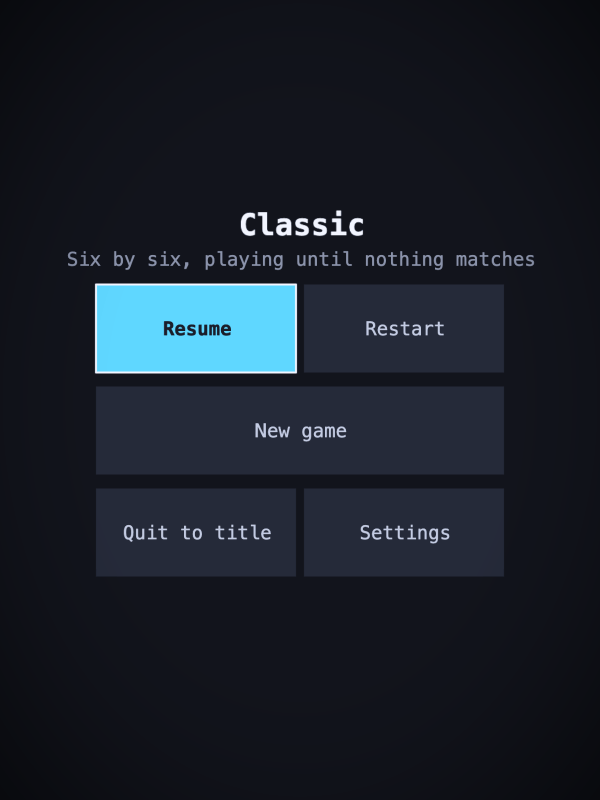
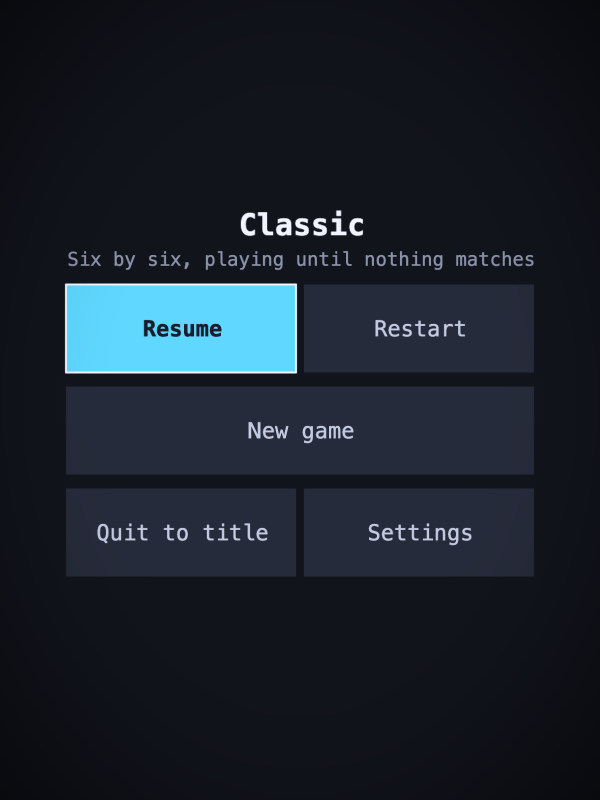
Bigger type, a wider panel, and lines that fit what holds them
Scaled down to a phone, the field's 600 across is about 390: what looks
generous at full size is a thumb's width there. So the menu is 520 wide
rather than 460, which makes a puzzle tile 111 across rather than 96, and
button labels, setting values and binding rows all go up two or three
points. The pause button is 66 by 50 rather than 46 by 34 - about a
fingertip once scaled - with its bars taken off the box so the glyph grows
with it, and its centre held where it was, since the strip's one line of
text sits on that centreline.

More of the board is held back: the frost goes to 0.93 dark and 0.96
light, and a cell to 0.97. The board behind a menu is bloom over a dark
field, and what read through a thinner glass was not the board but a few
bright blobs wandering under whatever was being read.

And the welcome banner was clipped at both ends: thirty-three characters
at thirty-six point wants 716 of a 600 wide field, so it ran from -56 to
656. Fitting a centred line to the room it has is now one thing that the
banner, a hint and a page heading all go through - how wide a run is
depends on the face it is drawn in as well as on what it says, and none of
the three is laid out, they are written.

diff --git a/src/view.js b/src/view.js
@@ -45,12 +45,16 @@ const HINT_H = 46
 // this is a hint to shorten.
 const HINT_SIZE = 18
 const HINT_SIZE_MIN = 14
+// How far a banner keeps off the edges of the field it is written across.
+const BANNER_MARGIN = 22
 // The gutter a settings row's name sits in, to the left of its values.
 const LABEL_W = 116
 
-// How wide a menu is. Everything in one is laid out from this, including how tall a scrolling
-// row has to be.
-const MENU_W = 460
+// How wide a menu is. Everything in one is laid out from this, including how tall a
+// scrolling row has to be. Wide, because the field is only 600 across and every cell in a
+// menu is a tap target scaled down to whatever a phone is: what is left either side is
+// enough to read the panel as something laid over the board.
+const MENU_W = 520
 
 // The level picker: a square cell per puzzle, and how many lines of them are on screen at
 // once. Four lines of four is sixteen visible at a time, which is enough that a player can
@@ -64,7 +68,7 @@ const SEED_H = 108
 
 // The pause button, in the strip under the board. A touch player has no escape key,
 // so this is the only way into the menu for them, and it is where a thumb already is.
-const PAUSE_BUTTON = { w: 46, h: 34, x: VIEW_W - 28 - 46, y: HUD_BOTTOM - 4 }
+const PAUSE_BUTTON = { w: 66, h: 50, x: VIEW_W - 24 - 66, y: HUD_BOTTOM - 12 }
 
 export class GameView {
   constructor(renderer) {
@@ -525,9 +529,9 @@ export class GameView {
   #drawPauseButton(theme) {
     const box = PAUSE_BUTTON
     this.renderer.panel(box.x, box.y, box.w, box.h, { fill: theme.cell })
-    const barW = 4
-    const barH = 14
-    const gap = 5
+    const barW = Math.round(box.w * 0.09)
+    const barH = Math.round(box.h * 0.44)
+    const gap = Math.round(box.w * 0.11)
     const top = box.y + (box.h - barH) / 2
     const left = box.x + box.w / 2 - gap / 2 - barW
     for (const x of [left, left + barW + gap]) {
@@ -568,6 +572,18 @@ export class GameView {
     })
   }
 
+  // What size a centred line can be drawn at and still fit the room it has. How wide a run
+  // is depends on what it says and on the face it is said in, so anything centred and
+  // written rather than laid out asks this instead of trusting its own size: a heading, a
+  // hint, and the banner over the board.
+  #fitted(text, size, room, floor = size * 0.6) {
+    const wide = this.renderer.measureText(text, size)
+    if (wide <= room) {
+      return size
+    }
+    return Math.max(size * (room / wide), floor)
+  }
+
   // A level cleared, over the board that is already dropping in behind it: it rises
   // and fades, so it never has to be dismissed.
   #drawBanner(game, theme) {
@@ -576,9 +592,11 @@ export class GameView {
     // Hold, then go: a line that starts fading immediately reads as a glitch.
     const alpha = clamp((1 - t) * 2.2, 0, 1) * clamp(t * 8, 0, 1)
     const y = game.layout.y + game.layout.height / 2 - t * 26
+    // The banner is the width of the field and not of a panel, since there is none behind it.
+    const room = VIEW_W - BANNER_MARGIN * 2
     this.renderer.text(banner.text, VIEW_W / 2, y, {
       color: theme.text.bright,
-      size: 36,
+      size: this.#fitted(banner.text, 36, room),
       align: "center",
       baseline: "middle",
       bold: true,
@@ -588,7 +606,7 @@ export class GameView {
     if (banner.sub) {
       this.renderer.text(banner.sub, VIEW_W / 2, y + 34, {
         color: theme.accent,
-        size: 22,
+        size: this.#fitted(banner.sub, 22, room),
         align: "center",
         baseline: "middle",
         alpha,
@@ -637,7 +655,7 @@ export class GameView {
     for (const line of heading) {
       renderer.text(line.text, VIEW_W / 2, textY + line.size / 2, {
         color: line.colour,
-        size: line.size,
+        size: this.#fitted(line.text, line.size, width - PANEL_PAD * 2),
         align: "center",
         baseline: "middle",
         bold: line.bold,
@@ -735,7 +753,7 @@ export class GameView {
         fill: filled ? theme.accent : theme.cell,
         // Steadier than the frost behind it: the glass is on purpose, but a label wants a
         // ground that is not moving under it.
-        alpha: filled ? 1 : 0.92,
+        alpha: filled ? 1 : 0.97,
       })
       if (under) {
         renderer.panel(box.x, box.y, box.w, box.h, {
@@ -745,7 +763,7 @@ export class GameView {
       }
       renderer.text(option.label, box.x + box.w / 2, box.y + box.h / 2, {
         color: filled ? theme.panel : theme.text.normal,
-        size: row.primary ? 25 : 19,
+        size: row.primary ? 29 : 22,
         align: "center",
         baseline: "middle",
         bold: filled,
@@ -785,11 +803,7 @@ export class GameView {
     if (!text) {
       return
     }
-    // Brought down to fit rather than run off the panel, since a hint is a whole sentence and
-    // how long one is depends on the face it is drawn in as well as on what it says.
-    const room = width - PANEL_PAD * 2
-    const wide = this.renderer.measureText(text, HINT_SIZE)
-    const size = wide > room ? Math.max(HINT_SIZE * (room / wide), HINT_SIZE_MIN) : HINT_SIZE
+    const size = this.#fitted(text, HINT_SIZE, width - PANEL_PAD * 2, HINT_SIZE_MIN)
     this.renderer.text(text, x + width / 2, rowY + rowHeight / 2, {
       color: colour,
       size,
@@ -811,14 +825,14 @@ export class GameView {
     const middle = box.y + box.h / 2
     renderer.text(row.label, x + 26, middle, {
       color: selected ? theme.text.bright : theme.text.normal,
-      size: 20,
+      size: 21,
       baseline: "middle",
       bold: selected,
     })
     if (row.value != null) {
       renderer.text(row.value, x + width - 26, middle, {
         color: selected ? theme.accent : theme.text.dim,
-        size: 19,
+        size: 20,
         align: "right",
         baseline: "middle",
         bold: selected,
@@ -840,7 +854,7 @@ export class GameView {
     if (row.label) {
       renderer.text(row.label, x + 26, rowY + boxH / 2, {
         color: onRow ? theme.text.bright : theme.text.normal,
-        size: 21,
+        size: 22,
         align: "left",
         baseline: "middle",
       })
@@ -856,7 +870,7 @@ export class GameView {
       this.menuHits.push({ index, option: optionIndex, ...box })
       renderer.panel(box.x, box.y, box.w, box.h, {
         fill: chosen ? theme.accent : theme.cell,
-        alpha: chosen ? 1 : 0.9,
+        alpha: chosen ? 1 : 0.96,
       })
       if (onRow && chosen) {
         renderer.panel(box.x, box.y, box.w, box.h, {
@@ -869,7 +883,7 @@ export class GameView {
       } else {
         renderer.text(option.label, box.x + box.w / 2, box.y + box.h / 2, {
           color: chosen ? theme.panel : theme.text.normal,
-          size: 19,
+          size: 21,
           align: "center",
           baseline: "middle",
           bold: chosen,
@@ -949,16 +963,18 @@ export class GameView {
     const locked = option.locked
     renderer.panel(box.x, box.y, box.w, box.h, {
       fill: under ? theme.accent : theme.cell,
-      alpha: locked ? 0.5 : under ? 1 : 0.92,
+      // A locked cell is still a cell of the ladder, so it is dimmed rather than ghosted:
+      // the board on it is what says what is coming.
+      alpha: locked ? 0.68 : under ? 1 : 0.97,
     })
     if (under) {
       renderer.panel(box.x, box.y, box.w, box.h, { stroke: theme.text.bright, width: 2 })
     }
 
     const label = String(option.label)
-    renderer.text(label, box.x + 9, box.y + 20, {
+    renderer.text(label, box.x + 11, box.y + 22, {
       color: under ? theme.panel : locked ? theme.text.faint : theme.text.dim,
-      size: 17,
+      size: 19,
       bold: true,
     })
 

diff --git a/src/palette.js b/src/palette.js
@@ -84,9 +84,11 @@ const DARK = {
   // What is laid over the board while a menu is up: enough to push it back, not enough
   // to hide it. The panel itself is frosted, so the board reads through both.
   scrim: { color: "#0a0c12", alpha: 0.45 },
-  // How much of the panel's own colour is laid over the blurred board behind it. None
-  // would be a window, all of it a wall.
-  frost: 0.86,
+  // How much of the panel's own colour is laid over the blurred board behind it. None would
+  // be a window, all of it a wall. Near the wall end: the board is bloom over a dark field,
+  // and what reads through a thinner glass is not the board but a handful of bright blobs
+  // wandering under whatever is being read.
+  frost: 0.93,
   // How much light the whole theme throws into the bloom pass. Dark is where the
   // glow belongs, so it gets all of it.
   bloom: 1,
@@ -134,7 +136,7 @@ const LIGHT = {
   scrim: { color: "#1e1a14", alpha: 0.12 },
   // Higher than the dark theme's: dark text needs a paler ground under it than light
   // text needs over a dark one.
-  frost: 0.9,
+  frost: 0.96,
   // A glow laid over a pale field does not read as light, it reads as desaturation: adding
   // to a colour lifts whatever channel it has least of, which is what turns a red to pink.
   // The light theme therefore takes a little of it - enough to soften the edge of a long

diff --git a/test/view.test.js b/test/view.test.js
@@ -389,6 +389,24 @@ test("the clock draws at every point of its run", () => {
   }
 })
 
+test("the banner a first game opens with fits the field", () => {
+  const game = new Game()
+  // The welcome, in the game's own words: launch with nothing remembered raises it.
+  game.launch("")
+  assert.ok(game.banner, "a first-time player is told how to play")
+  for (const call of drawn(game)) {
+    if (call.kind !== "text" || call.opts.align !== "center") {
+      continue
+    }
+    const width = call.opts.str.length * call.opts.size * 0.6
+    const [x] = call.args
+    assert.ok(
+      x - width / 2 >= 0 && x + width / 2 <= VIEW_W,
+      `"${call.opts.str}" runs ${Math.round(x - width / 2)}..${Math.round(x + width / 2)} across a field of ${VIEW_W}`,
+    )
+  }
+})
+
 test("every hint fits the panel it is drawn in", () => {
   const game = new Game()
   game.start("classic")
